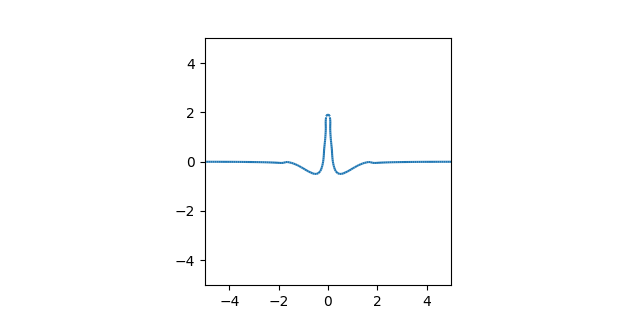
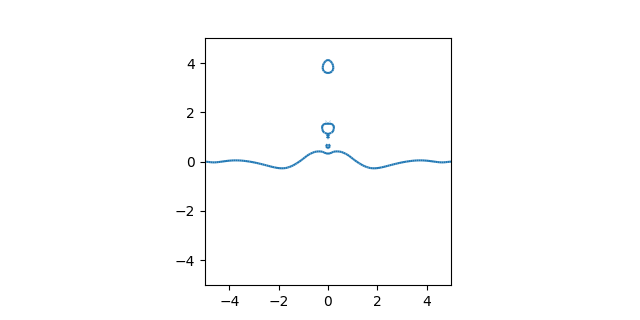
Testing and updating ejection tracling

Changed region(s): [[0.3125, 0.3438, 0.7188, 0.5625], [0.5, 0.1875, 0.5312, 0.25]]

diff --git a/BurstingBubble/PostProcessing/Interfaces.py b/BurstingBubble/PostProcessing/Interfaces.py
@@ -11,8 +11,10 @@ dt = 0.1
 total_points = 0
 while total_points==0:
     # finds file name and exits loop once finished
-
-    file_name = "../DriverCode/Water-R0.0071-Level8/Interfaces/interfaceDrop-3.5.dat"
+    R = 0.0071
+    Level = 8
+    t = 10.0
+    file_name = "../DriverCode/Water-R0.0031-Level8/Interfaces/interfaceDrop-9.5.dat"
     try:
         data = np.loadtxt(file_name, delimiter=' ', usecols=(0,1), unpack=False)
     except FileNotFoundError:
@@ -32,7 +34,8 @@ lines = data_mirrored.reshape((len(data_mirrored)//2,2,2))
 line_collection = mc.LineCollection(lines)
 
 # plots and saves graphs
-fig, ax = plt.subplots(figsize=(6.4, 3.2))
+scale=1
+fig, ax = plt.subplots(figsize=(6.4*scale, 3.2*scale))
 # set axes limits manually because Collections do not take part in autoscaling
 ax.set_xlim(-5, 5)
 ax.set_ylim(-5, 5)

diff --git a/BurstingBubble/DriverCode/MasterImpact/DropImpact.c b/BurstingBubble/DriverCode/MasterImpact/DropImpact.c
@@ -181,7 +181,7 @@ event ejection (i++) {
   double gap_num = 1000;
   double gap = domainSize/gap_num;
   for (double j=-domainSize/2 + 0.000001;j<domainSize/2; j+= gap){
-    if (interpolate(f, j,0)>0.5){
+    if (interpolate(f, j,0)<0.5){
       state = 1;
     }
     else{
@@ -198,10 +198,12 @@ event ejection (i++) {
   }
   changes = changes/2;
   if (num_jets < changes){
-    fprintf(fp_jet_eject,"%d Droplets seperated at time: %g", changes-num_jets,t);
+    fprintf(fp_jet_eject,"%d Droplets seperated at time: %g\n", changes-num_jets,t);
+    num_jets = changes;
   }
   else if( num_jets > changes){
-    fprintf(fp_jet_eject,"%d Droplets disappeared at time: %g", num_jets-changes,t);
+    fprintf(fp_jet_eject,"%d Droplets disappeared at time: %g\n", num_jets-changes,t);
+    num_jets
   }
 
 }
